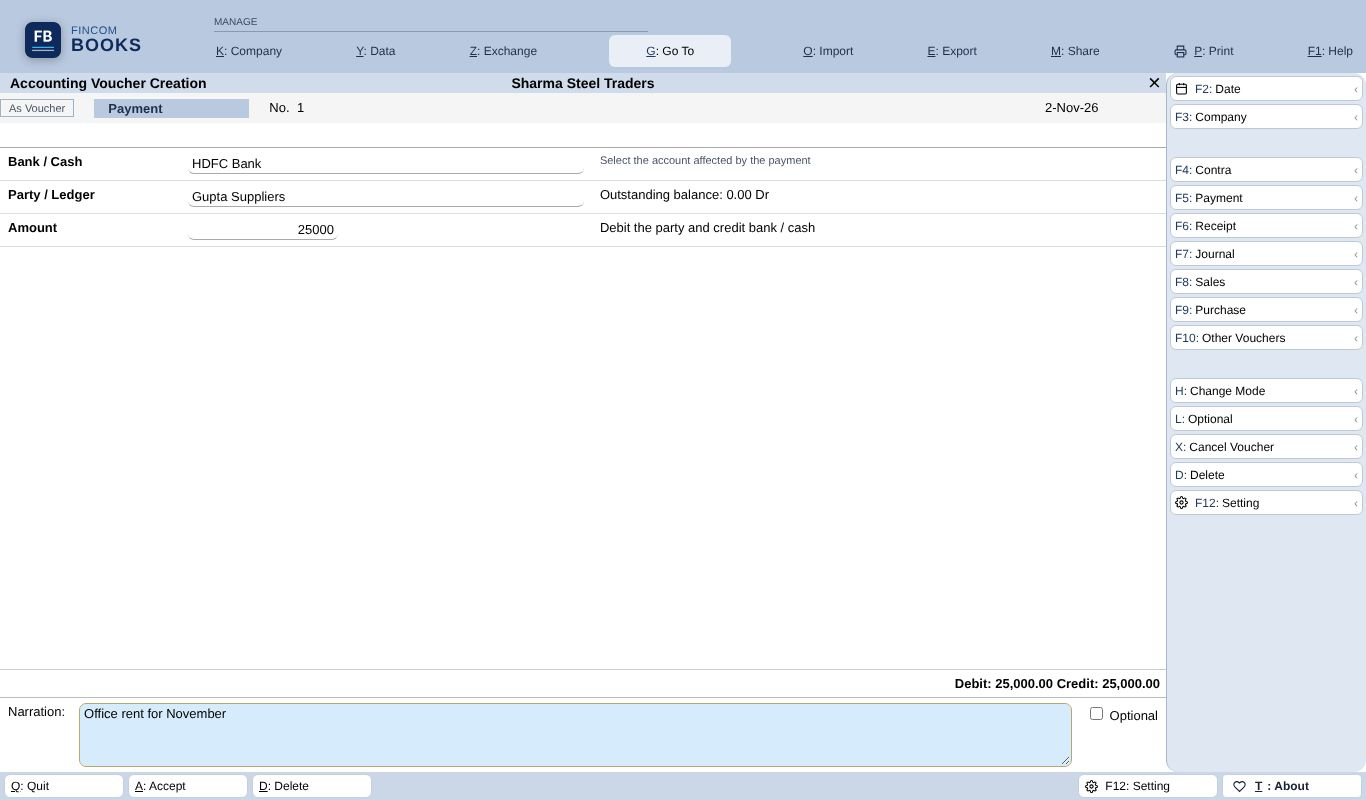
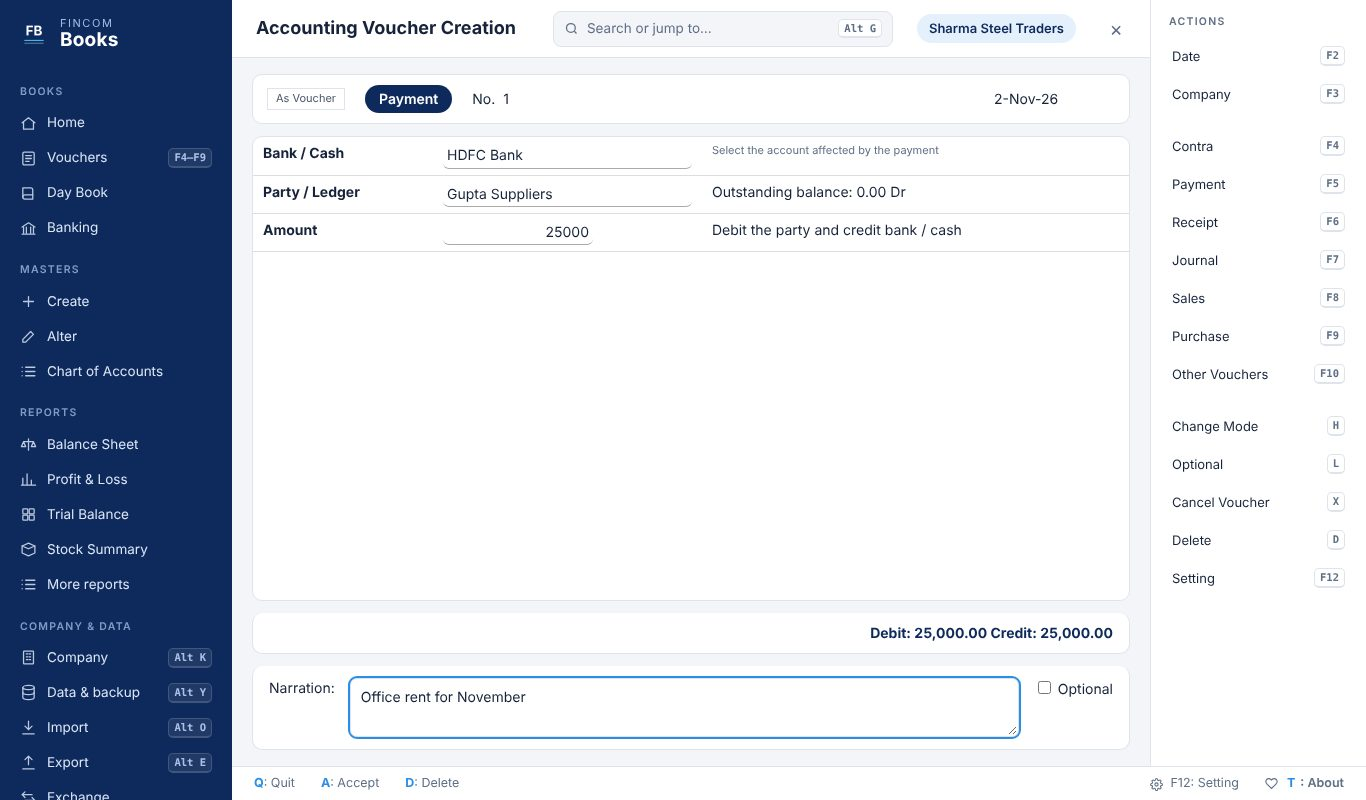
New FinCom layout: sidebar navigation, search bar, card screens (v1.2.2)
- Sidebar replaces the top ribbon; every existing action keeps its
  data-action and shortcut. Adds a Home action.
- Top bar with screen title, search (opens Go To) and company pill.
- theme.css layers the new look over fidelity.css; screens, keyboard
  flow and tests are unchanged.
- Home menu shows shortcut keys as badges instead of mixed-case labels.

Claude-Session: https://claude.ai/code/session_018WTzzKCWvQagLovbveEnM3

diff --git a/theme.css b/theme.css
@@ -1,0 +1,259 @@
+/* FinCom Books layout and visual layer. Loaded after fidelity.css; structure and behaviour live there and in workflows.js.
+   Layout: dark navy sidebar on the left, white top bar with search, content on a cool grey canvas, context actions on the right. */
+:root {
+  --fc-navy: #0e2a5c;
+  --fc-navy-2: #183a75;
+  --fc-sky: #2a8ee6;
+  --fc-sky-soft: #e4f1fd;
+  --fc-canvas: #f3f5f9;
+  --fc-surface: #ffffff;
+  --fc-line: #dfe4ec;
+  --fc-ink: #16233a;
+  --fc-muted: #5f6f86;
+  --fc-radius: 10px;
+  --fc-shadow: 0 1px 2px rgba(16, 32, 64, .06), 0 4px 14px rgba(16, 32, 64, .05);
+  --fc-font: "Segoe UI", -apple-system, BlinkMacSystemFont, "Inter", Roboto, "Helvetica Neue", Arial, sans-serif;
+  --fc-mono: "Cascadia Mono", "SF Mono", Menlo, Consolas, monospace;
+  --font: var(--fc-font);
+  --size: 14px;
+  --paper: var(--fc-surface);
+  --ink: var(--fc-ink);
+  --muted: var(--fc-muted);
+  --cursor: var(--fc-sky-soft);
+  --light: var(--fc-canvas);
+  --line: var(--fc-line);
+  --accent: var(--fc-navy);
+  --bar: var(--fc-surface);
+}
+
+body {
+  display: grid !important;
+  grid-template-columns: 232px minmax(0, 1fr);
+  grid-template-rows: minmax(0, 1fr) 34px;
+  height: 100vh;
+  background: var(--fc-canvas) !important;
+  font: var(--size)/1.45 var(--fc-font) !important;
+  color: var(--fc-ink) !important;
+}
+u { text-decoration: none !important; font-weight: 700; color: var(--fc-sky); }
+kbd {
+  font: 600 10.5px/1 var(--fc-mono);
+  padding: 3px 5px;
+  border-radius: 5px;
+  border: 1px solid var(--fc-line);
+  border-bottom-width: 2px;
+  background: var(--fc-surface);
+  color: var(--fc-muted);
+  white-space: nowrap;
+}
+input:focus, select:focus, textarea:focus { outline: 2px solid var(--fc-sky) !important; outline-offset: 0; background: #fff !important; }
+button:focus-visible, [tabindex]:focus-visible { outline: 2px solid var(--fc-sky) !important; outline-offset: 1px !important; }
+
+/* ---------- Sidebar ---------- */
+header.ribbon {
+  grid-column: 1; grid-row: 1 / span 2;
+  height: auto !important;
+  display: flex !important; flex-direction: column !important; gap: 0 !important;
+  padding: 0 !important;
+  background: var(--fc-navy) !important;
+  overflow-y: auto;
+}
+.ribbon .brand {
+  width: auto !important; max-width: none !important;
+  flex-direction: row !important; align-items: center !important; gap: 10px !important;
+  padding: 18px 18px 14px !important; margin: 0 !important;
+  background: none !important; border: 0 !important; box-shadow: none !important;
+}
+.ribbon .brand-logo { height: 32px !important; max-width: 32px !important; border-radius: 8px; filter: none !important; }
+.ribbon .brand-text { display: flex !important; flex-direction: column !important; line-height: 1.05 !important; }
+.ribbon .brand-text span { color: #9fbbe6 !important; font-size: 11px !important; letter-spacing: .14em !important; }
+.ribbon .brand-text strong { color: #fff !important; font-size: 19px !important; font-weight: 700 !important; letter-spacing: .01em !important; }
+.ribbon nav {
+  display: flex !important; flex-direction: column !important; align-items: stretch !important; justify-content: flex-start !important;
+  gap: 1px !important; padding: 4px 10px 18px !important; flex: 1;
+}
+.ribbon .nav-section {
+  color: #7f9cc8; font-size: 10.5px; font-weight: 600; letter-spacing: .12em; text-transform: uppercase;
+  padding: 16px 10px 6px;
+}
+.ribbon nav button {
+  display: flex !important; align-items: center !important; gap: 10px !important;
+  width: 100% !important; min-width: 0 !important; height: 34px !important;
+  padding: 0 10px !important; border-radius: 8px !important; border: 0 !important;
+  background: transparent !important; color: #dbe6f7 !important; font-size: 13.5px !important; text-align: left !important;
+}
+.ribbon nav button span { flex: 1; overflow: hidden; text-overflow: ellipsis; white-space: nowrap; }
+.ribbon nav button:hover { background: rgba(255, 255, 255, .08) !important; color: #fff !important; }
+.ribbon nav button:focus-visible { outline: 2px solid #7cc0ff !important; }
+.ribbon nav .nav-icon { width: 17px; height: 17px; flex-shrink: 0; opacity: .85; }
+.ribbon nav kbd { background: rgba(255, 255, 255, .08); border-color: rgba(255, 255, 255, .14); color: #a9c2e8; }
+.ribbon nav .manage, .ribbon nav .goto { display: none !important; }
+
+/* ---------- Main column ---------- */
+#app { grid-column: 2; grid-row: 1; height: auto !important; min-height: 0; display: flex !important; }
+main { background: var(--fc-canvas) !important; }
+.titlebar {
+  height: 58px !important; padding: 0 18px 0 24px !important; gap: 16px;
+  background: var(--fc-surface) !important; border-bottom: 1px solid var(--fc-line);
+  font-size: 18px !important;
+}
+.titlebar #title { font-weight: 650 !important; color: var(--fc-ink) !important; white-space: nowrap; }
+.titlebar #company-title {
+  position: static !important; order: 3; margin-left: 8px;
+  font-size: 13px !important; font-weight: 600 !important; color: var(--fc-navy) !important;
+  background: var(--fc-sky-soft); border-radius: 999px; padding: 5px 12px; white-space: nowrap;
+}
+.titlebar #company-title:empty { display: none; }
+.topbar-search {
+  order: 2; margin-left: auto !important;
+  display: flex !important; align-items: center; gap: 8px;
+  width: min(340px, 34vw) !important; height: 36px !important; padding: 0 10px !important;
+  font-size: 13.5px !important; line-height: 1 !important; color: var(--fc-muted) !important; text-align: left;
+  background: var(--fc-canvas) !important; border: 1px solid var(--fc-line) !important; border-radius: 8px !important;
+}
+.topbar-search span { flex: 1; }
+.topbar-search:hover { border-color: #c3cfdf !important; color: var(--fc-ink) !important; }
+.titlebar > button[data-action="back"] {
+  order: 4; margin-left: 8px !important; width: 32px !important; height: 32px !important;
+  border-radius: 8px !important; color: var(--fc-muted) !important; font-size: 20px !important;
+}
+.titlebar > button[data-action="back"]:hover { background: var(--fc-canvas) !important; }
+#screen { background: var(--fc-canvas) !important; }
+
+/* ---------- Context actions (right) ---------- */
+#keys {
+  width: 216px !important; padding: 14px 12px !important; gap: 4px !important;
+  background: var(--fc-surface) !important; border-left: 1px solid var(--fc-line) !important; box-shadow: none !important;
+  border-radius: 0 !important;
+}
+#keys::before { content: "Actions"; font-size: 10.5px; font-weight: 600; letter-spacing: .12em; text-transform: uppercase; color: var(--fc-muted); padding: 0 6px 6px; }
+#keys button {
+  min-height: 34px !important; padding: 0 8px !important; gap: 8px !important;
+  border: 1px solid transparent !important; border-radius: 8px !important; background: transparent !important;
+  font-size: 13px !important; color: var(--fc-ink) !important;
+}
+#keys button:hover { background: var(--fc-canvas) !important; border-color: var(--fc-line) !important; }
+#keys button span {
+  order: 2; margin-left: auto; color: var(--fc-muted) !important;
+  font: 600 10.5px/1 var(--fc-mono); padding: 3px 5px; border: 1px solid var(--fc-line); border-bottom-width: 2px; border-radius: 5px;
+}
+#keys button em { display: none !important; }
+#keys .gap { height: 10px !important; }
+#keys .voucher-lookup-panel { border-radius: var(--fc-radius) !important; border-color: var(--fc-line) !important; background: var(--fc-surface) !important; box-shadow: var(--fc-shadow); }
+
+/* ---------- Status bar ---------- */
+footer {
+  grid-column: 2; grid-row: 2; height: 34px !important; padding: 0 12px !important; gap: 6px !important; align-items: center;
+  background: var(--fc-surface) !important; border-top: 1px solid var(--fc-line);
+}
+footer button, footer a {
+  min-width: 0 !important; height: 26px !important; padding: 0 10px !important;
+  border: 0 !important; border-radius: 6px !important; background: transparent !important;
+  color: var(--fc-muted) !important; font-size: 12.5px !important; box-shadow: none !important;
+}
+footer button:hover { background: var(--fc-canvas) !important; color: var(--fc-ink) !important; }
+footer button:last-child { margin-left: 0 !important; min-width: 0 !important; }
+#status { color: var(--fc-navy); font-weight: 600; font-size: 12.5px !important; }
+
+/* ---------- Home ---------- */
+.gateway { grid-template-columns: minmax(0, 1.55fr) minmax(300px, 1fr) !important; gap: 20px; padding: 20px 24px !important; background: none !important; }
+.gateway-left-panel, .gateway-dashboard { background: none !important; border: 0 !important; padding: 0 !important; }
+.gateway-menu-wrap { align-items: flex-start !important; justify-content: stretch !important; padding: 0 !important; background: none !important; border: 0 !important; }
+.menu-box {
+  width: 100% !important; background: var(--fc-surface) !important; border: 1px solid var(--fc-line) !important;
+  border-radius: var(--fc-radius) !important; box-shadow: var(--fc-shadow) !important; overflow: hidden;
+}
+.menu-title {
+  background: none !important; color: var(--fc-ink) !important; text-align: left !important;
+  font-size: 15px !important; font-weight: 650 !important; padding: 16px 18px 4px !important; border: 0 !important;
+}
+.gateway .menu-title { font-size: 0 !important; }
+.gateway .menu-title::before { content: "Quick actions"; font-size: 15px; }
+.menu-body { padding: 4px 8px 12px !important; }
+.menu-category {
+  padding: 12px 10px 4px !important; margin: 0 !important;
+  font-size: 10.5px !important; font-weight: 600; letter-spacing: .12em; text-transform: uppercase; color: var(--fc-muted) !important;
+}
+.menu-row {
+  padding: 7px 10px !important; min-height: 0 !important; line-height: 1.3 !important; border-radius: 7px !important;
+  font-size: 14px !important; color: var(--fc-ink) !important;
+}
+.menu-row:hover { background: var(--fc-canvas) !important; }
+.menu-row.selected, .report-row.selected, .list-row.selected { background: var(--fc-sky-soft) !important; color: var(--fc-navy) !important; box-shadow: inset 3px 0 0 var(--fc-sky); }
+.menu-row.separated { margin-top: 10px !important; }
+.gateway-info-tile, .kpi-card, .trend-card, .dashboard-card {
+  background: var(--fc-surface) !important; border: 1px solid var(--fc-line) !important; border-radius: var(--fc-radius) !important;
+  box-shadow: var(--fc-shadow) !important;
+}
+.kpi-card .kpi-value { color: var(--fc-ink) !important; }
+
+/* ---------- Forms and vouchers ---------- */
+.form-screen { background: var(--fc-canvas) !important; padding: 20px 24px !important; }
+.master-form {
+  background: var(--fc-surface) !important; border: 1px solid var(--fc-line) !important; border-radius: var(--fc-radius);
+  box-shadow: var(--fc-shadow); padding: 20px 24px 28px !important; min-height: 0 !important;
+}
+.form-column { border-right-color: var(--fc-line) !important; }
+.form-heading { font-size: 12px; font-weight: 600 !important; letter-spacing: .08em; text-transform: uppercase; color: var(--fc-muted); margin: 22px 0 10px !important; }
+.field { grid-template-columns: 200px 1fr !important; min-height: 40px !important; gap: 12px !important; }
+.field label { color: var(--fc-muted); font-size: 13.5px; }
+.field label::after { content: "" !important; }
+.field input, .field select, .data-dialog textarea, .list-search, .voucher-narration textarea, .voucher-head input, .voucher-head select {
+  height: 34px; padding: 0 10px !important; border: 1px solid var(--fc-line) !important; border-radius: 7px !important;
+  background: var(--fc-surface) !important;
+}
+.voucher-narration textarea { height: auto; padding: 8px 10px !important; }
+.form-actions button, .dialog-buttons button {
+  height: 34px; padding: 0 18px !important; border-radius: 8px !important; border: 1px solid var(--fc-line) !important;
+  background: var(--fc-surface) !important; font-weight: 600;
+}
+.form-actions button[data-action="accept"], .dialog-buttons .yes { background: var(--fc-navy) !important; border-color: var(--fc-navy) !important; color: #fff !important; }
+.voucher { background: var(--fc-canvas) !important; padding: 16px 20px; gap: 12px; }
+.voucher > * { background: var(--fc-surface); border: 1px solid var(--fc-line) !important; border-radius: var(--fc-radius); }
+.voucher-band { background: var(--fc-surface) !important; padding: 10px 14px !important; }
+.voucher-type { background: var(--fc-navy) !important; color: #fff !important; border-radius: 999px; padding: 4px 14px !important; min-width: 0 !important; font-weight: 600 !important; }
+.voucher-head { max-width: none !important; padding: 14px 16px !important; }
+.voucher-table { border-top: 1px solid var(--fc-line) !important; }
+.voucher-table th { font-size: 11.5px; font-weight: 600 !important; letter-spacing: .06em !important; text-transform: uppercase; color: var(--fc-muted); background: #f8fafc; border-bottom: 1px solid var(--fc-line) !important; padding: 9px 10px !important; }
+.voucher-table td { padding: 6px 10px !important; }
+.voucher-table tr:focus-within { background: var(--fc-sky-soft) !important; }
+.voucher-total { border-top: 0 !important; padding: 10px 16px !important; color: var(--fc-navy); }
+.voucher-narration { border-top: 0 !important; padding: 12px 16px !important; align-items: flex-start; }
+
+/* ---------- Reports ---------- */
+.report { background: var(--fc-canvas) !important; padding: 16px 20px; gap: 12px; }
+.report-caption { background: var(--fc-surface); border: 1px solid var(--fc-line) !important; border-radius: var(--fc-radius); padding: 14px 18px !important; min-height: 0 !important; }
+.report-caption strong { letter-spacing: 0 !important; font-size: 17px !important; font-weight: 650; }
+.report-scroll, .dual { background: var(--fc-surface); border: 1px solid var(--fc-line); border-radius: var(--fc-radius); }
+.report-table th { font-size: 11.5px; font-weight: 600 !important; letter-spacing: .06em !important; text-transform: uppercase; color: var(--fc-muted); border-bottom: 1px solid var(--fc-line) !important; padding: 10px 12px !important; }
+.report-table td { padding: 6px 12px !important; height: auto !important; }
+.report-table tr[data-row]:hover { background: #f6f9fd; }
+.report-total { border-top: 1px solid var(--fc-line) !important; padding: 10px 14px !important; font-size: 13.5px !important; }
+.report-total span:first-child, .dual th:first-child { letter-spacing: 0 !important; }
+.dual > section:first-child { border-right-color: var(--fc-line) !important; }
+
+/* ---------- Dialogs ---------- */
+#overlay { inset: 0 !important; background: rgba(14, 26, 48, .38) !important; }
+#dialog { border: 0 !important; border-radius: 12px !important; box-shadow: 0 20px 50px rgba(10, 24, 52, .28) !important; overflow: hidden; }
+.dialog-title { background: var(--fc-surface) !important; color: var(--fc-ink) !important; text-align: left !important; font-size: 16px; font-weight: 650 !important; padding: 16px 18px 8px !important; }
+#dialog-body { padding: 8px 18px 18px !important; }
+.list-row { padding: 7px 10px !important; border-radius: 7px; }
+.list-row:hover { background: var(--fc-canvas); }
+.lookup-dialog { border-radius: 12px 0 0 12px !important; }
+
+@media (prefers-reduced-motion: no-preference) {
+  .ribbon nav button, .menu-row, #keys button, .list-row { transition: background-color .12s ease; }
+}
+
+/* ---------- Refinements ---------- */
+#screen:focus, #screen:focus-visible { outline: none !important; }
+.menu-row { display: flex !important; align-items: center; justify-content: space-between; }
+.menu-row .menu-hotkey { color: var(--fc-muted) !important; }
+#keys .svg-icon { display: none !important; }
+.footer-thanks-btn { border: 0 !important; background: transparent !important; box-shadow: none !important; color: var(--fc-muted) !important; }
+.lookup-title { background: var(--fc-surface) !important; color: var(--fc-muted) !important; font-size: 10.5px; font-weight: 600; letter-spacing: .1em; text-transform: uppercase; padding: 10px 12px 4px !important; }
+.voucher > :empty { display: none; }
+.gateway { height: auto !important; min-height: 100%; align-items: start; }
+.gateway .menu-box { overflow: visible; }
+.gateway .menu-body { max-height: none !important; overflow: visible !important; }
+.gateway .menu-box, .gateway-menu-wrap { height: auto !important; max-height: none !important; min-height: 0 !important; }

diff --git a/index.html b/index.html
@@ -1,10 +1,8 @@
 <!doctype html>
-<html lang="en"><head><meta charset="utf-8"><meta name="viewport" content="width=device-width,initial-scale=1"><title>FinCom Books</title><meta name="application-name" content="FinCom Books"><meta name="theme-color" content="#1b2c43"><link rel="manifest" href="/manifest.json"><link rel="shortcut icon" href="/favicon.ico"><link rel="icon" type="image/x-icon" href="/favicon.ico"><link rel="icon" type="image/png" sizes="1024x1024" href="/logo.png"><link rel="stylesheet" href="/fidelity.css"></head>
+<html lang="en"><head><meta charset="utf-8"><meta name="viewport" content="width=device-width,initial-scale=1"><title>FinCom Books</title><meta name="application-name" content="FinCom Books"><meta name="theme-color" content="#1b2c43"><link rel="manifest" href="/manifest.json"><link rel="shortcut icon" href="/favicon.ico"><link rel="icon" type="image/x-icon" href="/favicon.ico"><link rel="icon" type="image/png" sizes="1024x1024" href="/logo.png"><link rel="stylesheet" href="/fidelity.css"><link rel="stylesheet" href="/theme.css"></head>
 <body>
-<header class="ribbon"><div class="brand"><img src="/logo.png" class="brand-logo" alt="Logo"><div class="brand-text"><span>FinCom</span><strong>BOOKS</strong></div></div><nav aria-label="Application">
-<div class="manage">MANAGE</div><button data-action="company"><u>K</u>: Company</button><button data-action="data"><u>Y</u>: Data</button><button data-action="exchange"><u>Z</u>: Exchange</button>
-<button class="goto" data-action="goto"><u>G</u>: Go To</button><button data-action="import"><u>O</u>: Import</button><button data-action="export"><u>E</u>: Export</button><button data-action="share"><u>M</u>: Share</button><button data-action="print"><svg class="svg-icon" width="13" height="13" viewBox="0 0 24 24" fill="none" stroke="currentColor" stroke-width="2"><path d="M6 9V2h12v7M6 18H4a2 2 0 0 1-2-2v-5a2 2 0 0 1 2-2h16a2 2 0 0 1 2 2v5a2 2 0 0 1-2 2h-2"/><rect x="6" y="14" width="12" height="8"/></svg> <u>P</u>: Print</button><button data-action="help"><u>F1</u>: Help</button></nav></header>
-<div id="app"><main><div class="titlebar"><strong id="title">Home</strong><strong id="company-title"></strong><button data-action="back" aria-label="Close current screen">×</button></div><div id="screen" tabindex="-1"></div></main><aside id="keys" aria-label="Function keys"></aside></div>
+<header class="ribbon"><div class="brand"><img src="/logo.png" class="brand-logo" alt=""><div class="brand-text"><span>FinCom</span><strong>Books</strong></div></div><nav aria-label="Application"><div class="nav-section">Books</div><button data-action="home"><svg class="nav-icon" viewBox="0 0 24 24" fill="none" stroke="currentColor" stroke-width="1.8" stroke-linecap="round" stroke-linejoin="round" aria-hidden="true"><path d="M3 11l9-7 9 7"/><path d="M5 10v10h14V10"/></svg><span>Home</span></button><button data-action="voucher"><svg class="nav-icon" viewBox="0 0 24 24" fill="none" stroke="currentColor" stroke-width="1.8" stroke-linecap="round" stroke-linejoin="round" aria-hidden="true"><rect x="4" y="3" width="16" height="18" rx="2"/><path d="M8 8h8M8 12h8M8 16h5"/></svg><span>Vouchers</span><kbd>F4–F9</kbd></button><button data-action="report" data-args="Day Book"><svg class="nav-icon" viewBox="0 0 24 24" fill="none" stroke="currentColor" stroke-width="1.8" stroke-linecap="round" stroke-linejoin="round" aria-hidden="true"><path d="M4 4h11a3 3 0 0 1 3 3v13H7a3 3 0 0 1-3-3V4z"/><path d="M4 17a3 3 0 0 1 3-3h11"/></svg><span>Day Book</span></button><button data-action="menu" data-args="Banking"><svg class="nav-icon" viewBox="0 0 24 24" fill="none" stroke="currentColor" stroke-width="1.8" stroke-linecap="round" stroke-linejoin="round" aria-hidden="true"><path d="M3 10l9-6 9 6"/><path d="M5 10v8M9 10v8M15 10v8M19 10v8M3 20h18"/></svg><span>Banking</span></button><div class="nav-section">Masters</div><button data-action="create"><svg class="nav-icon" viewBox="0 0 24 24" fill="none" stroke="currentColor" stroke-width="1.8" stroke-linecap="round" stroke-linejoin="round" aria-hidden="true"><path d="M12 5v14M5 12h14"/></svg><span>Create</span></button><button data-action="alter"><svg class="nav-icon" viewBox="0 0 24 24" fill="none" stroke="currentColor" stroke-width="1.8" stroke-linecap="round" stroke-linejoin="round" aria-hidden="true"><path d="M4 20h4L19 9l-4-4L4 16v4z"/></svg><span>Alter</span></button><button data-action="masters" data-args="ledger"><svg class="nav-icon" viewBox="0 0 24 24" fill="none" stroke="currentColor" stroke-width="1.8" stroke-linecap="round" stroke-linejoin="round" aria-hidden="true"><path d="M8 6h13M8 12h13M8 18h13M3 6h.01M3 12h.01M3 18h.01"/></svg><span>Chart of Accounts</span></button><div class="nav-section">Reports</div><button data-action="report" data-args="Balance Sheet"><svg class="nav-icon" viewBox="0 0 24 24" fill="none" stroke="currentColor" stroke-width="1.8" stroke-linecap="round" stroke-linejoin="round" aria-hidden="true"><path d="M12 4v16M5 8h14M5 8l-3 7h6zM19 8l-3 7h6z"/></svg><span>Balance Sheet</span></button><button data-action="report" data-args="Profit &amp; Loss A/c"><svg class="nav-icon" viewBox="0 0 24 24" fill="none" stroke="currentColor" stroke-width="1.8" stroke-linecap="round" stroke-linejoin="round" aria-hidden="true"><path d="M4 20V10M10 20V4M16 20v-7M22 20H2"/></svg><span>Profit &amp; Loss</span></button><button data-action="report" data-args="Trial Balance"><svg class="nav-icon" viewBox="0 0 24 24" fill="none" stroke="currentColor" stroke-width="1.8" stroke-linecap="round" stroke-linejoin="round" aria-hidden="true"><rect x="4" y="4" width="7" height="7" rx="1"/><rect x="13" y="4" width="7" height="7" rx="1"/><rect x="4" y="13" width="7" height="7" rx="1"/><rect x="13" y="13" width="7" height="7" rx="1"/></svg><span>Trial Balance</span></button><button data-action="report" data-args="Stock Summary"><svg class="nav-icon" viewBox="0 0 24 24" fill="none" stroke="currentColor" stroke-width="1.8" stroke-linecap="round" stroke-linejoin="round" aria-hidden="true"><path d="M3 7l9-4 9 4-9 4-9-4z"/><path d="M3 7v10l9 4 9-4V7"/></svg><span>Stock Summary</span></button><button data-action="menu" data-args="Display More Reports"><svg class="nav-icon" viewBox="0 0 24 24" fill="none" stroke="currentColor" stroke-width="1.8" stroke-linecap="round" stroke-linejoin="round" aria-hidden="true"><path d="M8 6h13M8 12h13M8 18h13M3 6h.01M3 12h.01M3 18h.01"/></svg><span>More reports</span></button><div class="nav-section">Company &amp; data</div><button data-action="company"><svg class="nav-icon" viewBox="0 0 24 24" fill="none" stroke="currentColor" stroke-width="1.8" stroke-linecap="round" stroke-linejoin="round" aria-hidden="true"><rect x="5" y="3" width="14" height="18" rx="1"/><path d="M9 7h2M13 7h2M9 11h2M13 11h2M9 15h2M13 15h2"/></svg><span>Company</span><kbd>Alt K</kbd></button><button data-action="data"><svg class="nav-icon" viewBox="0 0 24 24" fill="none" stroke="currentColor" stroke-width="1.8" stroke-linecap="round" stroke-linejoin="round" aria-hidden="true"><ellipse cx="12" cy="5" rx="8" ry="3"/><path d="M4 5v14c0 1.7 3.6 3 8 3s8-1.3 8-3V5"/><path d="M4 12c0 1.7 3.6 3 8 3s8-1.3 8-3"/></svg><span>Data &amp; backup</span><kbd>Alt Y</kbd></button><button data-action="import"><svg class="nav-icon" viewBox="0 0 24 24" fill="none" stroke="currentColor" stroke-width="1.8" stroke-linecap="round" stroke-linejoin="round" aria-hidden="true"><path d="M12 3v12M7 10l5 5 5-5M4 21h16"/></svg><span>Import</span><kbd>Alt O</kbd></button><button data-action="export"><svg class="nav-icon" viewBox="0 0 24 24" fill="none" stroke="currentColor" stroke-width="1.8" stroke-linecap="round" stroke-linejoin="round" aria-hidden="true"><path d="M12 15V3M7 8l5-5 5 5M4 21h16"/></svg><span>Export</span><kbd>Alt E</kbd></button><button data-action="exchange"><svg class="nav-icon" viewBox="0 0 24 24" fill="none" stroke="currentColor" stroke-width="1.8" stroke-linecap="round" stroke-linejoin="round" aria-hidden="true"><path d="M7 4L3 8l4 4M3 8h14M17 20l4-4-4-4M21 16H7"/></svg><span>Exchange</span></button><button data-action="share"><svg class="nav-icon" viewBox="0 0 24 24" fill="none" stroke="currentColor" stroke-width="1.8" stroke-linecap="round" stroke-linejoin="round" aria-hidden="true"><circle cx="18" cy="5" r="3"/><circle cx="6" cy="12" r="3"/><circle cx="18" cy="19" r="3"/><path d="M8.6 13.5l6.8 4M15.4 6.5l-6.8 4"/></svg><span>Share</span></button><button data-action="print"><svg class="nav-icon" viewBox="0 0 24 24" fill="none" stroke="currentColor" stroke-width="1.8" stroke-linecap="round" stroke-linejoin="round" aria-hidden="true"><path d="M6 9V2h12v7M6 18H4a2 2 0 0 1-2-2v-5a2 2 0 0 1 2-2h16a2 2 0 0 1 2 2v5a2 2 0 0 1-2 2h-2"/><rect x="6" y="14" width="12" height="8"/></svg><span>Print</span><kbd>Alt P</kbd></button><button data-action="help"><svg class="nav-icon" viewBox="0 0 24 24" fill="none" stroke="currentColor" stroke-width="1.8" stroke-linecap="round" stroke-linejoin="round" aria-hidden="true"><circle cx="12" cy="12" r="9"/><path d="M9.5 9a2.5 2.5 0 1 1 3.5 2.3c-.6.3-1 .9-1 1.7M12 17h.01"/></svg><span>Help</span><kbd>F1</kbd></button></nav></header>
+<div id="app"><main><div class="titlebar"><strong id="title">Home</strong><button type="button" class="topbar-search" data-action="goto"><svg viewBox="0 0 24 24" width="15" height="15" fill="none" stroke="currentColor" stroke-width="2" aria-hidden="true"><circle cx="11" cy="11" r="7"/><path d="M20 20l-3.5-3.5"/></svg><span>Search or jump to…</span><kbd>Alt G</kbd></button><strong id="company-title"></strong><button data-action="back" aria-label="Close current screen">×</button></div><div id="screen" tabindex="-1"></div></main><aside id="keys" aria-label="Function keys"></aside></div>
 <footer id="footer"><button data-action="back"><u>Q</u>: Quit</button><button data-action="accept"><u>A</u>: Accept</button><button data-action="delete"><u>D</u>: Delete</button><span id="status" role="status"></span><button data-action="unifiedSettings"><svg class="svg-icon" width="13" height="13" viewBox="0 0 24 24" fill="none" stroke="currentColor" stroke-width="2"><circle cx="12" cy="12" r="3"/><path d="M19.4 15a1.65 1.65 0 0 0 .33 1.82l.06.06a2 2 0 0 1 0 2.83 2 2 0 0 1-2.83 0l-.06-.06a1.65 1.65 0 0 0-1.82-.33 1.65 1.65 0 0 0-1 1.51V21a2 2 0 0 1-2 2 2 2 0 0 1-2-2v-.09A1.65 1.65 0 0 0 9 19.4a1.65 1.65 0 0 0-1.82.33l-.06.06a2 2 0 0 1-2.83 0 2 2 0 0 1 0-2.83l.06-.06a1.65 1.65 0 0 0 .33-1.82 1.65 1.65 0 0 0-1.51-1H3a2 2 0 0 1-2-2 2 2 0 0 1 2-2h.09A1.65 1.65 0 0 0 4.6 9a1.65 1.65 0 0 0-.33-1.82l-.06-.06a2 2 0 0 1 0-2.83 2 2 0 0 1 2.83 0l.06.06a1.65 1.65 0 0 0 1.82.33H9a1.65 1.65 0 0 0 1-1.51V3a2 2 0 0 1 2-2 2 2 0 0 1 2 2v.09a1.65 1.65 0 0 0 1 1.51 1.65 1.65 0 0 0 1.82-.33l.06-.06a2 2 0 0 1 2.83 0 2 2 0 0 1 0 2.83l-.06.06a1.65 1.65 0 0 0-.33 1.82V9a1.65 1.65 0 0 0 1.51 1H21a2 2 0 0 1 2 2 2 2 0 0 1-2 2h-.09a1.65 1.65 0 0 0-1.51 1z"/></svg> F12: Setting</button><button data-action="specialThanks" class="footer-thanks-btn" title="Special Thanks & Credits"><svg class="svg-icon" width="13" height="13" viewBox="0 0 24 24" fill="none" stroke="currentColor" stroke-width="2"><path d="M20.84 4.61a5.5 5.5 0 0 0-7.78 0L12 5.67l-1.06-1.06a5.5 5.5 0 0 0-7.78 7.78l1.06 1.06L12 21.23l7.78-7.78 1.06-1.06a5.5 5.5 0 0 0 0-7.78z"/></svg> <u>T</u>: About</button></footer>
 <div id="overlay" hidden><section id="dialog" role="dialog" aria-modal="true" aria-labelledby="dialog-title"><div class="dialog-title" id="dialog-title"></div><div id="dialog-body"></div></section></div>
   <script src="/voucher_logic.js"></script><script src="/date_picker.js"></script><script src="/print_view.js"></script><script src="/lookup_context.js"></script><script src="/workflows.js"></script></body></html>

diff --git a/workflows.js b/workflows.js
@@ -29,7 +29,7 @@ function back() {closeVoucherLookup();if(state.dialog)return closeDialog();if(st
 function pop() {closeVoucherLookup();if(state.stack.length>1)state.stack.pop();state.draft=null;render();}
 function requireCompany() {if(state.data.active_company)return true;companyDialog();return false;}
 function rowButton(label,action,args='',selected=false,extra='') {return `<button class="menu-row ${selected?'selected':''} ${extra}" data-row data-action="${action}" data-args="${esc(args)}">${frame().kind==='gateway'?gatewayCaption(label):esc(label)}</button>`;}
-function gatewayCaption(label) {const keys={Create:'C',Alter:'A','Chart of Accounts':'H',Vouchers:'V','Day Book':'K',Banking:'N','Balance Sheet':'B','Profit & Loss A/c':'P','Stock Summary':'S','Ratio Analysis':'R','Display More Reports':'D',Dashboard:'O',Quit:'Q'};const key=keys[label],at=key?label.toUpperCase().indexOf(key):-1;return at<0?esc(label):esc(label.slice(0,at))+`<span class="menu-hotkey">${esc(['Day Book','Banking','Dashboard'].includes(label)?key:label[at])}</span>`+esc(label.slice(at+1));}
+function gatewayCaption(label) {const keys={Create:'C',Alter:'A','Chart of Accounts':'H',Vouchers:'V','Day Book':'K',Banking:'N','Balance Sheet':'B','Profit & Loss A/c':'P','Stock Summary':'S','Ratio Analysis':'R','Display More Reports':'D',Dashboard:'O',Quit:'Q'};const key=keys[label];return esc(label)+(key?`<kbd class="menu-hotkey">${key}</kbd>`:'');}
 function lookupPanelHtml() {
   const lookup=state.lookup;
   if(frame().kind!=='voucher'||!lookup)return '';
@@ -56,7 +56,7 @@ const SVG_GATEWAY = {
   chart: '<svg width="16" height="16" viewBox="0 0 24 24" fill="none" stroke="currentColor" stroke-width="2" stroke-linecap="round" stroke-linejoin="round"><line x1="18" y1="20" x2="18" y2="10"/><line x1="12" y1="20" x2="12" y2="4"/><line x1="6" y1="20" x2="6" y2="14"/></svg>'
 };
 function getSvgIcon(shortcut) {return SVG_ICONS[shortcut]||'';}
-function setKeys(items) {if(items)state.keys=items;const keys=state.keys||[];$('#keys').innerHTML=lookupPanelHtml()+keys.map(item=>item==='gap'?'<div class="gap"></div>':`<button data-shortcut="${esc(item[0])}" data-action="${item[2]}" data-args="${esc(item[3]||'')}">${getSvgIcon(item[0])}<span>${esc(item[0])}:</span> ${esc(item[1])}<em>‹</em></button>`).join('')+'<div class="bottom"></div>';}
+function setKeys(items) {if(items)state.keys=items;const keys=state.keys||[];$('#keys').innerHTML=lookupPanelHtml()+keys.map(item=>item==='gap'?'<div class="gap"></div>':`<button data-shortcut="${esc(item[0])}" data-action="${item[2]}" data-args="${esc(item[3]||'')}">${getSvgIcon(item[0])}<span>${esc(item[0])}</span> ${esc(item[1])}<em>‹</em></button>`).join('')+'<div class="bottom"></div>';}
 function isVoucherLookupControl(control) {return Boolean(control&&frame().kind==='voucher'&&['party','account','payment_bank','ledger','item'].includes(control.name));}
 function lookupRowType(control) {return control?.name==='item'?'item':control?.closest('#extra-table')?'extra':'';}
 function lookupContextFor(control) {
@@ -877,7 +877,7 @@ async function action(name,args='',element=null) {const d=state.data;const compa
   case 'create':return choose('List of Masters',Object.keys(kinds).map(k=>kinds[k]),label=>navigate({kind:'master',masterKind:Object.keys(kinds).find(k=>kinds[k]===label)}));
  case 'alter':case 'selectKind':return choose('List of Masters',Object.keys(kinds).map(k=>kinds[k]),label=>navigate({kind:'masters',masterKind:Object.keys(kinds).find(k=>kinds[k]===label)}));
   case 'masters':return navigate({kind:'masters',masterKind:args||'ledger'});case 'master':{const [kind,...parts]=args.split('|');return navigate({kind:'master',masterKind:kind,name:parts.length?parts.join('|'):null});}
-  case 'menu':return navigate({kind:'menu',name:args});case 'report':return navigate({kind:args==='Ageing'?'ageing':'report',name:args});case 'comparison':return navigate({kind:'comparison',name:args||'Balance Sheet'});case 'reportDrill':return openReportDrill(args);case 'refreshAgeing':return frame().loadAgeing?.();case 'toggleFinancialDetail':frame().detailed=!frame().detailed;return render();case 'dashboard':return navigate({kind:'dashboard'});case 'ratesManager':return navigate({kind:'rates_manager'});case 'saveItemRates':return saveItemRates();
+  case 'menu':return navigate({kind:'menu',name:args});case 'report':return navigate({kind:args==='Ageing'?'ageing':'report',name:args});case 'comparison':return navigate({kind:'comparison',name:args||'Balance Sheet'});case 'reportDrill':return openReportDrill(args);case 'refreshAgeing':return frame().loadAgeing?.();case 'toggleFinancialDetail':frame().detailed=!frame().detailed;return render();case 'home':{const go=()=>{closeVoucherLookup();state.stack=[{kind:'gateway',cursor:0}];state.draft=null;render();};return hasDirty()?confirmBox('Leave without saving?',go):go();}case 'dashboard':return navigate({kind:'dashboard'});case 'ratesManager':return navigate({kind:'rates_manager'});case 'saveItemRates':return saveItemRates();
   case 'kpiReport':{const today=keyDate(state.workingDate||state.data.current_date_iso||state.data.current_date||'20261014');const monthStart=today.slice(0,6)+'01';if(args==='today_sales')return navigate({kind:'report',name:'Day Book',vtype:'Sales',period:{from:today,to:today}});if(args==='today_collections')return navigate({kind:'report',name:'Day Book',vtype:'Receipt',period:{from:today,to:today}});if(args==='month_profit')return navigate({kind:'report',name:'Profit & Loss A/c',period:{from:monthStart,to:today}});if(args==='due_from_customers')return navigate({kind:'report',name:'Receivables'});if(args==='due_to_suppliers')return navigate({kind:'report',name:'Payables'});return navigate({kind:'report',name:'Day Book'});}
   case 'unifiedSettings':return showUnifiedSettingsModal(args);case 'switchUsetTab':return showUnifiedSettingsModal(args);case 'specialThanks':return showSpecialThanksDialog();
  case 'chooseLedger':return choose('List of Ledgers',Object.keys(d.ledgers),n=>navigate({kind:'report',name:'Ledger Vouchers',ledger:n}));case 'chooseGroup':return choose('List of Groups',d.groups,n=>navigate({kind:'report',name:'Group Summary',group:n}));case 'chooseItem':return choose('List of Stock Items',Object.keys(d.stock_items),n=>navigate({kind:'report',name:'Stock Item Vouchers',item:n}));case 'chooseBank':return choose('List of Bank Ledgers',Object.keys(d.ledgers).filter(n=>['Bank Accounts','Bank OCC A/c','Bank OD A/c'].includes(d.ledgers[n].group_type||d.ledgers[n].parent)),n=>navigate({kind:'report',name:'Bank Reconciliation',ledger:n}));

diff --git a/app_server.py b/app_server.py
@@ -261,7 +261,7 @@ def make_server(port=3543,data_path=None,allow_lan=False):
                         ct='text/csv; charset=utf-8' if fmt.lower()=='csv' else 'application/vnd.openxmlformats-officedocument.spreadsheetml.sheet'
                         filename=f"sample_bulk_{tmpl_type}.{fmt.lower()}"
                         return self.send(data,content_type=ct,headers={'Content-Disposition':f'attachment; filename="{filename}"'})
-                paths={'/':'index.html','/fidelity.css':'fidelity.css','/voucher_logic.js':'voucher_logic.js','/date_picker.js':'date_picker.js','/print_view.js':'print_view.js','/lookup_context.js':'lookup_context.js','/workflows.js':'workflows.js','/logo.png':'logo.png','/favicon.ico':'favicon.ico','/app.ico':'app.ico','/manifest.json':'manifest.json'}
+                paths={'/':'index.html','/fidelity.css':'fidelity.css','/theme.css':'theme.css','/voucher_logic.js':'voucher_logic.js','/date_picker.js':'date_picker.js','/print_view.js':'print_view.js','/lookup_context.js':'lookup_context.js','/workflows.js':'workflows.js','/logo.png':'logo.png','/favicon.ico':'favicon.ico','/app.ico':'app.ico','/manifest.json':'manifest.json'}
                 if parsed.path not in paths: return self.send({'error':'Not found'},404)
                 file=ROOT/paths[parsed.path]
                 mime=mimetypes.guess_type(str(file))[0] or 'application/octet-stream'

diff --git a/web/build_site.py b/web/build_site.py
@@ -10,7 +10,7 @@ import sys
 from pathlib import Path
 
 ROOT = Path(__file__).resolve().parents[1]
-APP_FILES = ['fidelity.css', 'workflows.js', 'voucher_logic.js', 'lookup_context.js', 'print_view.js',
+APP_FILES = ['fidelity.css', 'theme.css', 'workflows.js', 'voucher_logic.js', 'lookup_context.js', 'print_view.js',
              'date_picker.js', 'logo.png', 'favicon.ico', 'version.json',
              'app_server.py', 'books.py', 'billing_rules.py', 'interchange.py']
 PYODIDE_FILES = ['pyodide.js', 'pyodide.asm.mjs', 'pyodide.asm.wasm', 'python_stdlib.zip', 'pyodide-lock.json']
